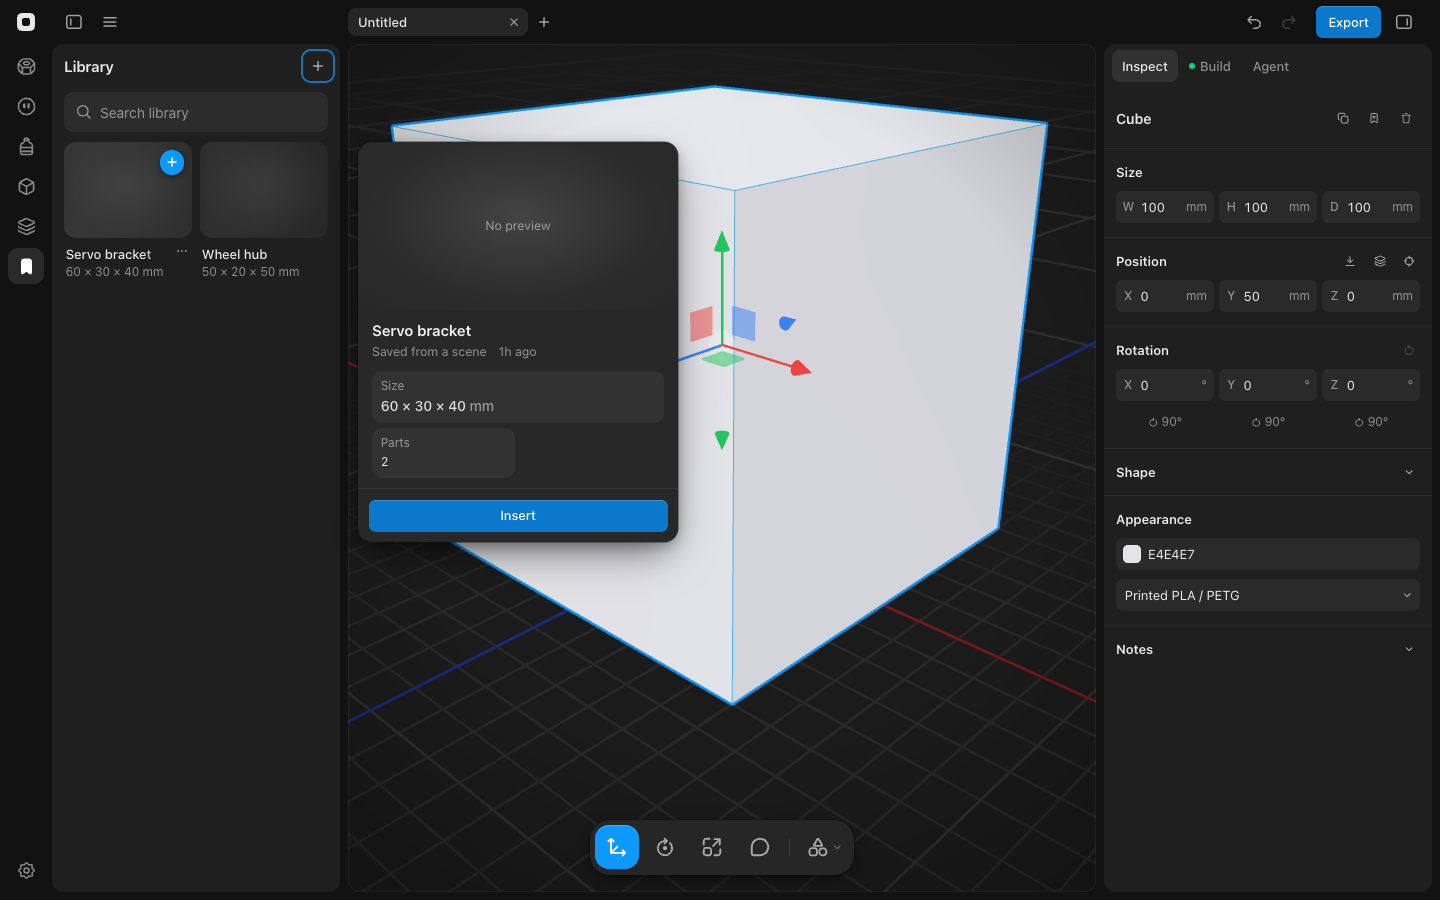
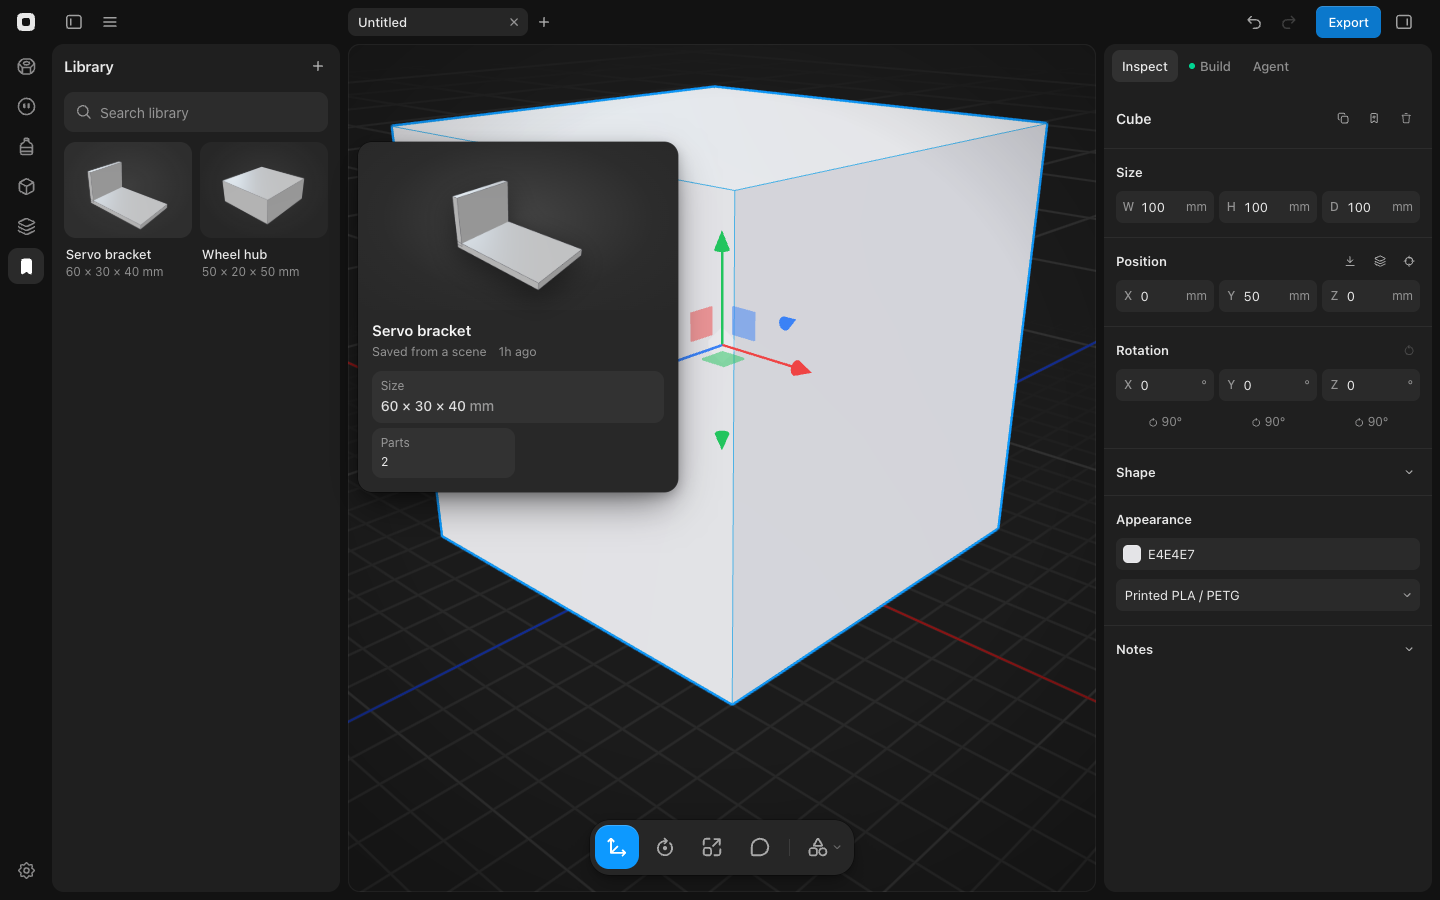
Make each Library tile one button that inserts, like Robots and Objects tiles
A Library tile had three ways to insert the same model: the thumbnail, the
name and a hover + with an Insert tooltip. The Robots and Objects tiles
beside it are one plain button. Double-clicking a name to rename it also
inserted two copies first, because both clicks reached the insert handler.

The tile is now one button: click to insert, drag onto the canvas,
right-click for Insert, Rename, Duplicate and Delete. The hover + and the
double-click rename are gone; Rename in the right-click menu still edits
the name in place. The Layout guide, the Library e2e test and the help
screenshot of a hovered tile are updated to match.

diff --git a/src/components/library/Tile.tsx b/src/components/library/Tile.tsx
@@ -1,9 +1,6 @@
 import React, { useRef, useState } from 'react';
 import { MODEL_DRAG_TYPE } from '../../data/dnd';
-import { HoverCard, Tooltip, PlusIcon } from '../../design-system';
-
-const HIDDEN_UNTIL_HOVER =
-  'opacity-0 pointer-events-none group-hover:opacity-100 group-hover:pointer-events-auto focus-within:opacity-100 focus-within:pointer-events-auto';
+import { HoverCard } from '../../design-system';
 
 const TileThumb: React.FC<{ thumb: string | undefined }> = ({ thumb }) => {
   if (thumb) {
@@ -28,6 +25,15 @@ const TileThumb: React.FC<{ thumb: string | undefined }> = ({ thumb }) => {
   );
 };
 
+const TileText: React.FC<{ meta: React.ReactNode; children: React.ReactNode }> = ({ meta, children }) => (
+  <div className="pl-0.5 pt-2">
+    {children}
+    <div className="text-[12px] text-white/50 tabular truncate">{meta}</div>
+  </div>
+);
+
+const TILE_NAME = 'text-[13px] leading-[19px] font-medium text-white/90 truncate';
+
 export const Tile: React.FC<{
   name: string;
   meta: React.ReactNode;
@@ -35,89 +41,48 @@ export const Tile: React.FC<{
   renaming: boolean;
   onInsert: () => void;
   modelId: string;
-  onStartRename: () => void;
   onRename: (name: string) => void;
   onMenu: (e: React.MouseEvent) => void;
   details: () => React.ReactNode;
-}> = ({
-  name,
-  meta,
-  thumb,
-  renaming,
-  onInsert,
-  modelId,
-  onStartRename,
-  onRename,
-  onMenu,
-  details,
-}) => {
-  const body = (
-    <div
-      data-library-tile
-      className="group relative w-full"
-      onContextMenu={onMenu}
-      draggable={!renaming}
-      onDragStart={(e) => {
-        e.dataTransfer.setData(MODEL_DRAG_TYPE, modelId);
-        e.dataTransfer.effectAllowed = 'copy';
+}> = ({ name, meta, thumb, renaming, onInsert, modelId, onRename, onMenu, details }) => {
+  if (renaming) {
+    return (
+      <div data-library-tile className="w-full">
+        <div className="preview aspect-[4/3]">
+          <TileThumb thumb={thumb} />
+        </div>
+        <TileText meta={meta}>
+          <RenameField name={name} onDone={onRename} />
+        </TileText>
+      </div>
+    );
+  }
 
-        const img = (e.currentTarget as HTMLElement).querySelector('img');
-
-        if (img) e.dataTransfer.setDragImage(img, img.width / 2, img.height / 2);
-      }}
-    >
+  return (
+    <HoverCard content={details} beside="aside" className="w-full">
       <button
         type="button"
+        data-library-tile
         onClick={onInsert}
-        aria-label={`Insert: ${name}`}
-        className="preview block w-full aspect-[4/3] cursor-default active:scale-[0.98] transition-[background-color,transform] duration-150"
+        onContextMenu={onMenu}
+        draggable
+        onDragStart={(e) => {
+          e.dataTransfer.setData(MODEL_DRAG_TYPE, modelId);
+          e.dataTransfer.effectAllowed = 'copy';
+
+          const img = e.currentTarget.querySelector('img');
+
+          if (img) e.dataTransfer.setDragImage(img, img.width / 2, img.height / 2);
+        }}
+        className="group w-full text-left cursor-default active:scale-[0.98] transition-transform duration-150"
       >
-        <TileThumb thumb={thumb} />
+        <div className="preview aspect-[4/3]">
+          <TileThumb thumb={thumb} />
+        </div>
+        <TileText meta={meta}>
+          <div className={TILE_NAME}>{name}</div>
+        </TileText>
       </button>
-
-      <div className="pl-0.5 pt-2 cursor-default" onClick={renaming ? undefined : onInsert}>
-        {renaming ? (
-          <RenameField name={name} onDone={onRename} />
-        ) : (
-          <div
-            className="text-[13px] leading-[19px] font-medium text-white/90 truncate"
-            onDoubleClick={(e) => {
-              e.stopPropagation();
-              onStartRename();
-            }}
-          >
-            {name}
-          </div>
-        )}
-        <div className="text-[12px] text-white/50 tabular truncate">{meta}</div>
-      </div>
-
-      {!renaming && (
-        <Tooltip
-          label="Insert"
-          className={`absolute top-[8px] right-[8px] transition-opacity ${HIDDEN_UNTIL_HOVER}`}
-        >
-          <button
-            type="button"
-            aria-label={`Insert ${name}`}
-            onClick={(e) => {
-              e.stopPropagation();
-              onInsert();
-            }}
-            className="w-7 h-7 rounded-full bg-[#0d99ff] text-white flex items-center justify-center cursor-default shadow-[0_2px_6px_rgba(0,0,0,0.4)] hover:bg-[#2ba5ff] active:scale-[0.94] transition-[background-color,transform] duration-150"
-          >
-            <PlusIcon className="w-3.5 h-3.5" strokeWidth={3} />
-          </button>
-        </Tooltip>
-      )}
-    </div>
-  );
-
-  return renaming ? (
-    body
-  ) : (
-    <HoverCard content={details} beside="aside" className="w-full">
-      {body}
     </HoverCard>
   );
 };

diff --git a/e2e/library.e2e.test.ts b/e2e/library.e2e.test.ts
@@ -56,11 +56,16 @@ describe('Library', () => {
     expect(app.errors).toEqual([]);
   });
 
-  it('shows only Insert on a hovered tile', async () => {
-    await tile().hover();
+  it('inserts a model once when its tile is clicked, with no controls on the tile', async () => {
+    const before = await partCount(app.page);
 
-    await expect.poll(() => tile().getByRole('button', { name: 'Insert Bracket' }).isVisible()).toBe(true);
-    expect(await tile().getByRole('button', { name: 'More' }).count()).toBe(0);
+    expect(await tile().evaluate((el) => el.tagName)).toBe('BUTTON');
+    expect(await tile().locator('button').count()).toBe(0);
+
+    await tile().click();
+
+    await expect.poll(() => partCount(app.page)).toBe(before + 1);
+    expect(app.errors).toEqual([]);
   });
 
   it('opens the model menu on right-click and inserts from it', async () => {

diff --git a/src/components/library/ModelTile.tsx b/src/components/library/ModelTile.tsx
@@ -12,10 +12,9 @@ export const ModelTile: React.FC<{
   model: CustomModelDefinition;
   renaming: boolean;
   onInsert: () => void;
-  onStartRename: () => void;
   onRename: (name: string) => void;
   onMenu: (e: React.MouseEvent) => void;
-}> = ({ model, renaming, onInsert, onStartRename, onRename, onMenu }) => {
+}> = ({ model, renaming, onInsert, onRename, onMenu }) => {
   const thumb = usePartsThumbnail(modelKey(model), () => modelParts(model)) || model.sourceImageDataUrl;
   const d = model.defaultDimensions;
 
@@ -32,7 +31,6 @@ export const ModelTile: React.FC<{
       renaming={renaming}
       onInsert={onInsert}
       modelId={model.id}
-      onStartRename={onStartRename}
       onRename={onRename}
       onMenu={onMenu}
       details={() => <ModelDetails model={model} thumb={thumb} />}

diff --git a/src/components/library/sections.tsx b/src/components/library/sections.tsx
@@ -45,7 +45,6 @@ export const ModelsSection: React.FC<{
       renaming={state.renaming === m.id}
       onInsert={() => props.onInsertModel(m)}
       onRename={finishRename(state, m.name, (name) => props.onRenameModel(m, name))}
-      onStartRename={() => state.setRenaming(m.id)}
       onMenu={state.showMenu(
         modelMenu({
           model: m,

diff --git a/docs/guide/layout.md b/docs/guide/layout.md
@@ -43,9 +43,9 @@ Part of the Basecase guide. [AGENTS.md](../../AGENTS.md) holds the rules every c
     - **Library** (`LibraryPanel`) holds saved models, in the same voice as Parts. Saved scenes live in the Scenes menu (`ScenesMenu`, ⌘O, beside the sidebar toggle), not here.
       - **New Model** (+) sits in the view's header, like Robots' Import robot: Save Selection, Save Whole Scene, Import SVG, From Image.
       - **Search** first (“Search library”, matches names and descriptions; Esc clears), then the models as a 2-column grid, with no section title: Library holds only models.
-      - **Tiles** (`library/Tile.tsx`) match Parts tiles: a 4:3 thumbnail that zooms on hover, name, and the size (`347 × 213 × 347 mm`). Clicking a tile or its + inserts the model; tiles also drag onto the canvas. The + is the only hover control and takes no clicks while hidden, so the name runs the tile's full width.
+      - **Tiles** (`library/Tile.tsx`) match Robots and Objects tiles: one button with a 4:3 thumbnail that zooms on hover, the name, and the size (`347 × 213 × 347 mm`). Clicking anywhere on a tile inserts the model, and tiles drag onto the canvas. They carry no hover controls: a + would only repeat the click.
       - **Hover** opens details beside the panel (`HoverCard`): large preview, where it came from and how long ago, the description, Size, Parts and From catalog (only when non-zero). It has no Insert of its own.
-      - **Right-click:** Insert, Rename, Duplicate, Delete. Double-click a name to rename it in place.
+      - **Right-click:** Insert, Rename, Duplicate, Delete. Rename edits the name in place. There's no double-click rename, since a tile's first click already inserts.
       - **Delete** asks first (§3b-12), then toasts “Deleted ⟨name⟩” + [Undo], which saves it back.
       - Empty, it shows “No models” and one action: Save Selection while something is selected, else Import SVG.
     - **Saved scenes** (`ScenesMenu`, `components/scenes/`): a popover with “Search scenes” and the scenes grouped by date, arrow keys and Enter to open. Right-click or ⋯: Open (except this tab's scene), Rename, Duplicate (“Sprout copy”, “Sprout copy 2”…), Delete (asks first). Renaming a scene that's open renames its tab too.
